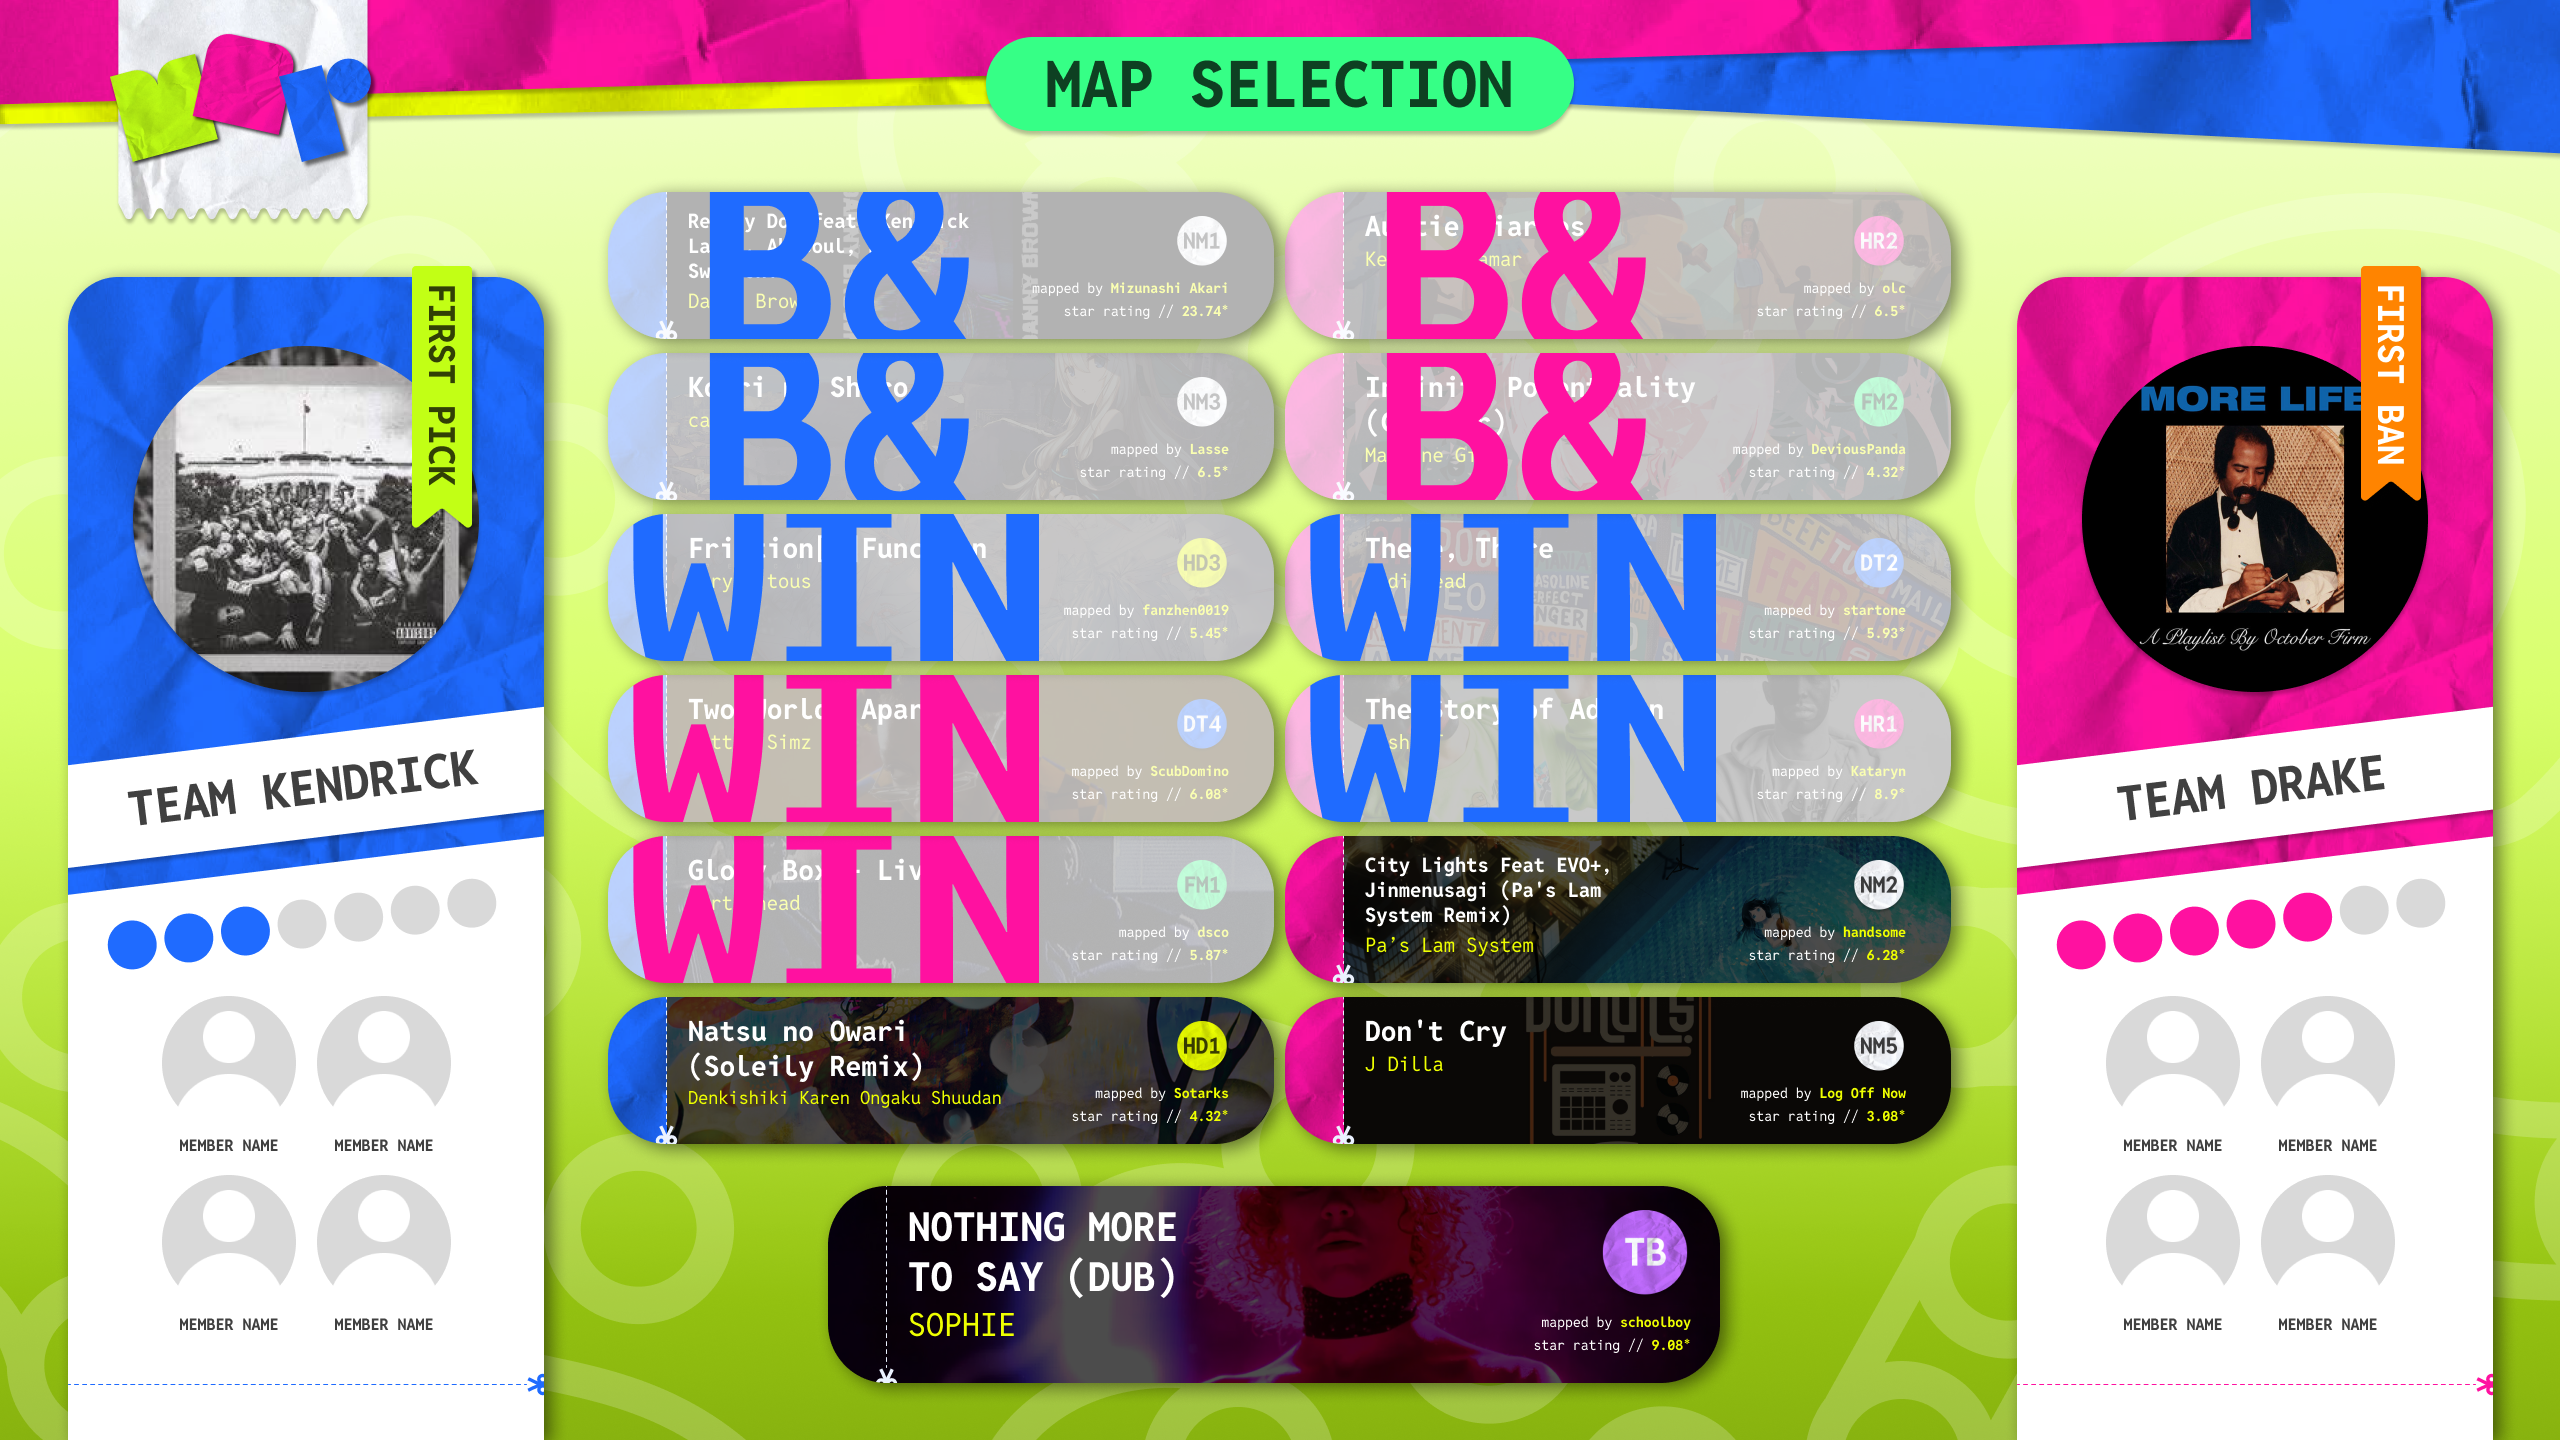
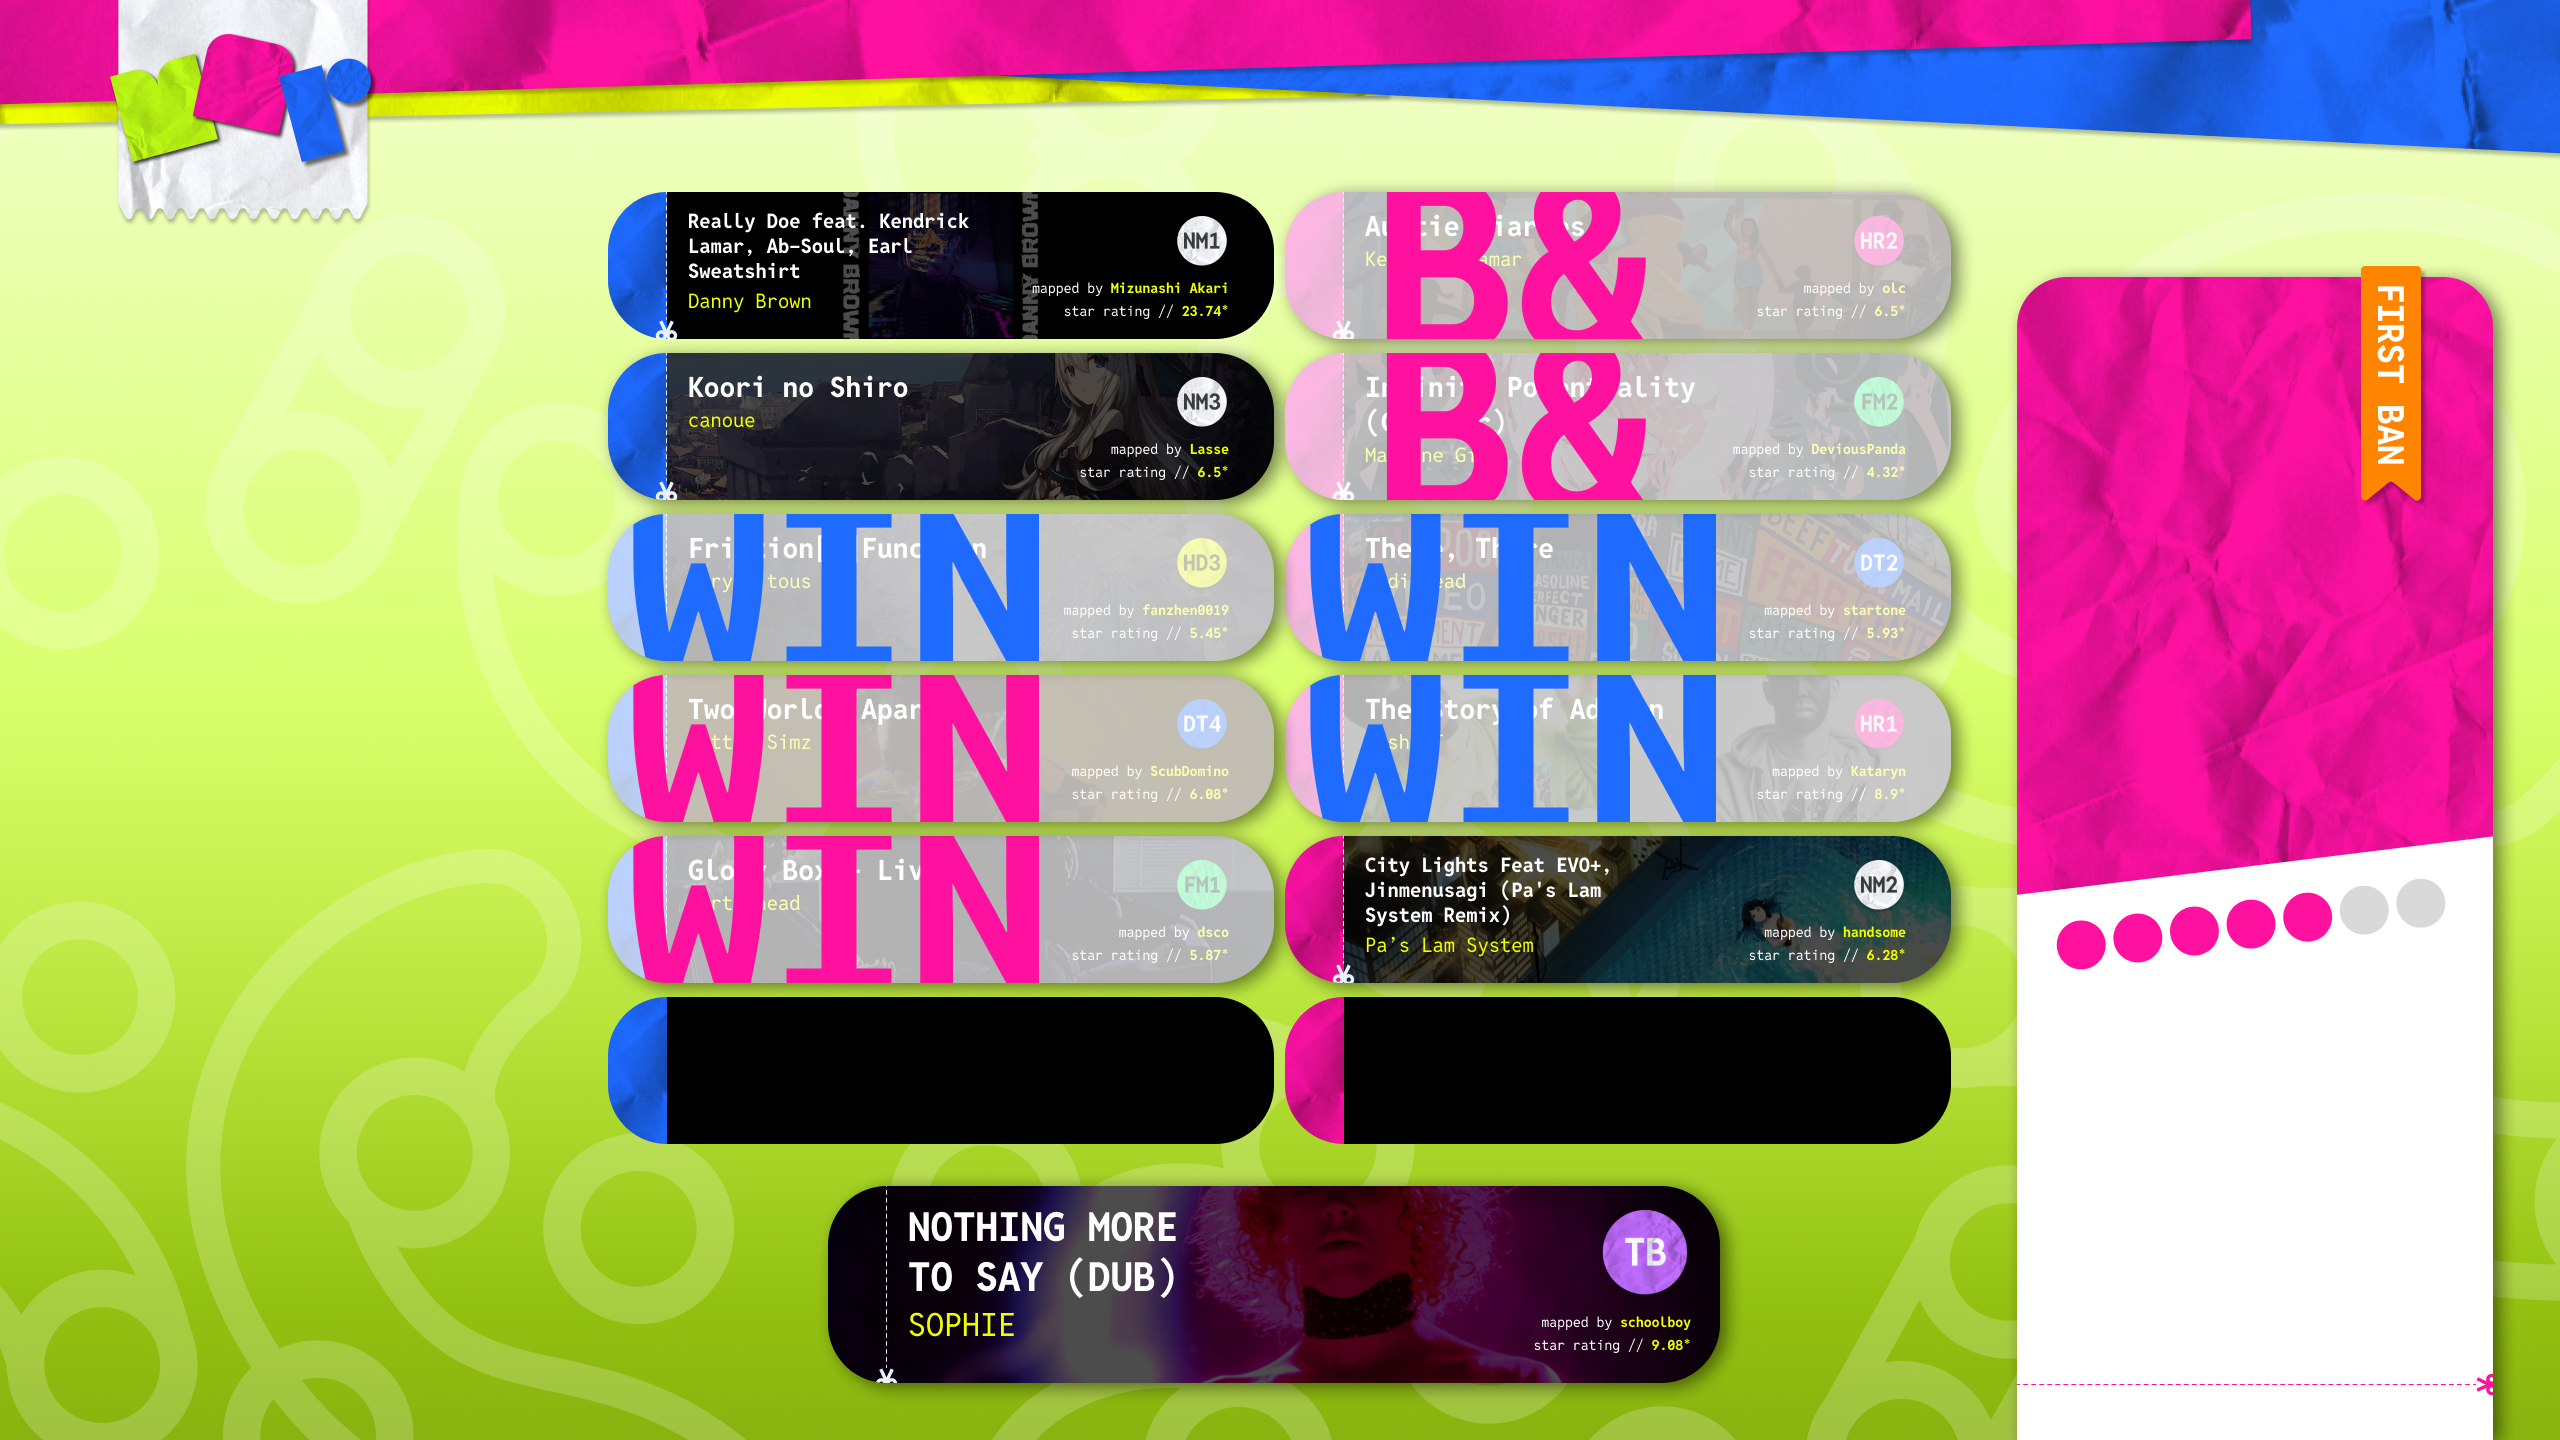
Add map details

diff --git a/mappool/style.css b/mappool/style.css
@@ -20,6 +20,7 @@
     height: 1440px;
     background-image: url("static/background.png");
     font-family: "Reddit Mono";
+    font-weight: 700;
     overflow: hidden;
 }
 
@@ -33,7 +34,6 @@
     height: var(--map-selection-title-height);
     border-radius: calc(var(--map-selection-title-height) / 2);
     background-color: #36FF86;
-    font-weight: 700;
     font-size: 64px;
     line-height: var(--map-selection-title-height);
     color: black;
@@ -53,7 +53,7 @@
 /* Side backgrounds */
 .side-background {
     border-radius: var(--side-background-border-radius) var(--side-background-border-radius) 0 0;
-    box-shadow: 0px 4px 4px rgba(0, 0, 0, 0.25);
+    box-shadow: 7px 0 20px rgba(0, 0, 0, 0.5);
 }
 
 /* Team Banner */
@@ -87,7 +87,6 @@
     height: var(--team-name-height);
     background-color: white;
     
-    font-weight: 700;
     font-size: 48px;
     line-height: var(--team-name-height);
     text-align: center;
@@ -145,5 +144,42 @@
     white-space: nowrap;
     overflow: hidden;
     text-overflow: ellipsis;
-    font-weight: 700;
+}
+
+/* Mappool Section */
+#mappool-section {
+    position: absolute;
+    top: 192px;
+    left: 50%;
+    transform: translateX(-50%);
+    width: 1342px;
+    display: flex;
+    justify-content: space-between
+}
+.map-card {
+    position: relative;
+    width: 666px;
+    margin-bottom: 10px;
+}
+
+/* Map details */
+.map-details {
+    position: absolute;
+    top: 16px;
+    left: 80px;
+    display: flex;
+    flex-direction: column;
+}
+/* Map Song Name */
+.song-name {
+    font-size: 28px;
+    line-height: 35px; 
+    color: white;
+}
+/* Map Song Artist */
+.song-artist {
+    font-size: 20px;
+    font-weight: 400;
+    line-height: 25px;
+    color: #EEFF00;
 }

diff --git a/mappool/index.html b/mappool/index.html
@@ -86,6 +86,30 @@
                 </div>
             </div>
         </div>
+
+        <!-- Mappool Sides -->
+        <div id="mappool-section">
+            <div id="mappool-section-left">
+                <div class="map-card">
+                    <img src="static/left-pick.png">
+                </div>
+                <div class="map-card">
+                    <!-- <img src="static/left-pick.png"> -->
+                    <div class="map-details">
+                        <div class="song-name">Koori no Shiro<br>Koori no Shiro</div>
+                        <div class="song-artist">canoue</div>
+                    </div>
+                    
+                </div>
+            </div>
+            <div id="mappool-section-right">
+                <div class="map-card">
+                    <img src="static/right-pick.png">
+                </div>
+                <div class="map-card">
+                    <img src="static/right-pick.png">
+                </div>
+            </div>
         </div>
     </div>
     <script src="index.js"></script>
